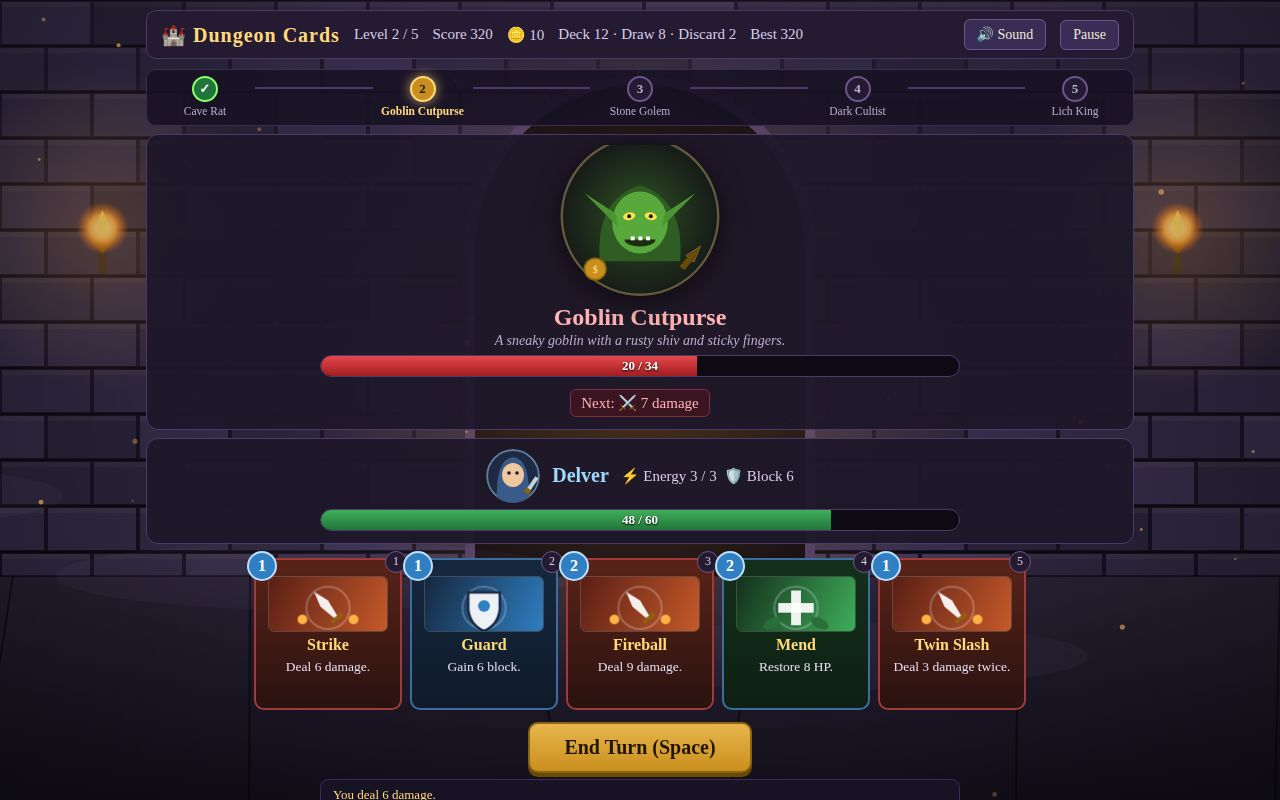
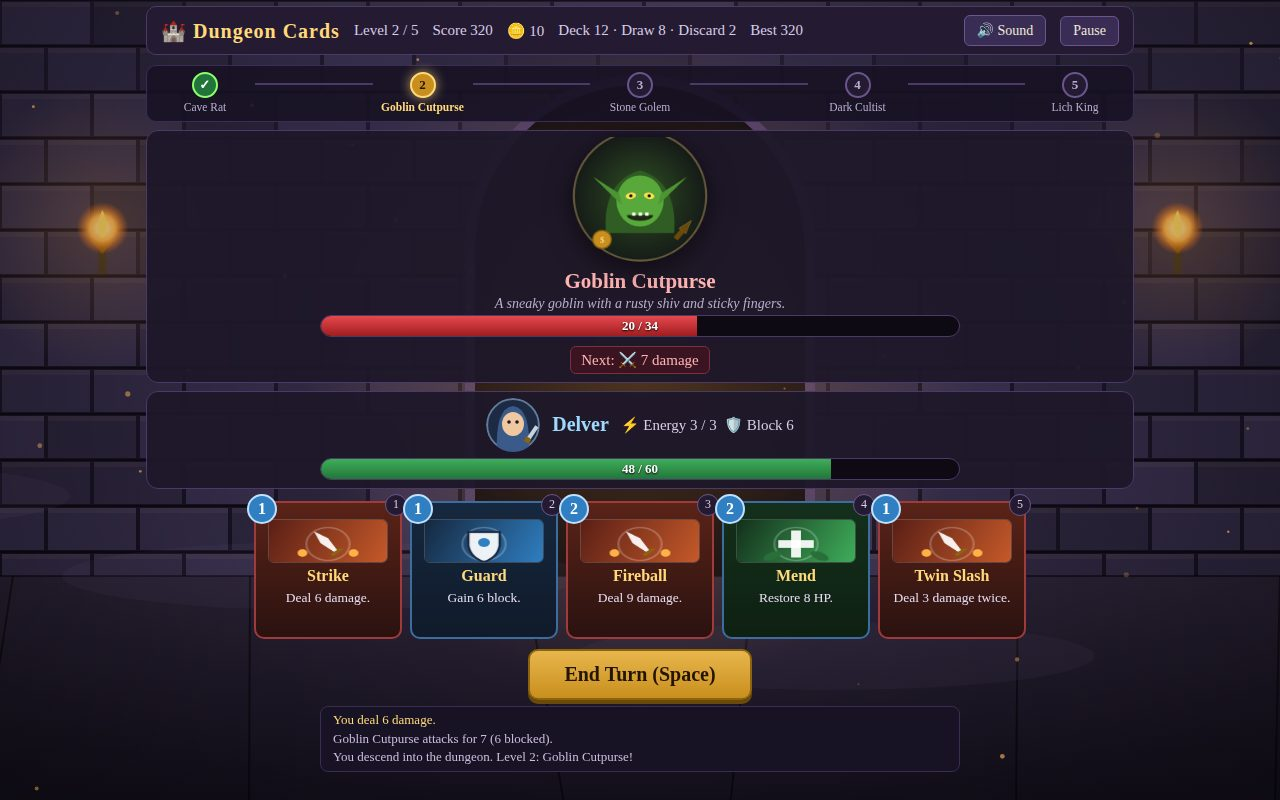
Fix fight-screen fit: compress layout so hand, End Turn and log fit 1280x800

diff --git a/css/style.css b/css/style.css
@@ -8,7 +8,7 @@ body {
   font-size: 16px;
 }
 #bg-canvas { position: fixed; inset: 0; width: 100vw; height: 100vh; z-index: 0; }
-#app { max-width: 1020px; margin: 0 auto; padding: 10px 16px 12px; min-height: 100vh; position: relative; z-index: 1; }
+#app { max-width: 1020px; margin: 0 auto; padding: 6px 16px 8px; min-height: 100vh; position: relative; z-index: 1; }
 
 /* ---------- HUD ---------- */
 #hud {
@@ -48,21 +48,21 @@ body {
 .hidden { display: none !important; }
 .monster-box, .player-box {
   background: rgba(30, 23, 41, 0.94); border: 1px solid #4a3a68; border-radius: 12px;
-  padding: 10px 18px 12px; margin-bottom: 8px; text-align: center;
+  padding: 6px 18px 8px; margin-bottom: 8px; text-align: center;
   position: relative;
 }
-.monster-art { display: block; margin: 0 auto 4px; filter: drop-shadow(0 6px 14px rgba(0,0,0,0.6)); }
+.monster-art { display: block; margin: 0 auto 4px; filter: drop-shadow(0 6px 14px rgba(0,0,0,0.6)); width: 144px; height: 128px; }
 .player-art { vertical-align: middle; border-radius: 50%; }
-.monster-name { font-size: 24px; font-weight: bold; color: #ffb3b3; margin: 2px 0; }
+.monster-name { font-size: 21px; font-weight: bold; color: #ffb3b3; margin: 2px 0; }
 .boss-tag {
   background: #7a1010; color: #ffd97a; font-size: 13px; padding: 2px 8px;
   border-radius: 5px; vertical-align: middle; letter-spacing: 1px;
 }
-.monster-desc { font-size: 14px; color: #b9aed0; font-style: italic; margin-bottom: 6px; }
+.monster-desc { font-size: 14px; color: #b9aed0; font-style: italic; margin-bottom: 3px; }
 .monster-meta { margin-top: 6px; font-size: 14px; color: #d8cde8; display: flex; gap: 16px; justify-content: center; }
 .poison { color: #8dff6e; font-weight: bold; }
 .intent {
-  margin-top: 6px; display: inline-block; background: #3a1420; color: #ffb3b3;
+  margin-top: 3px; display: inline-block; background: #3a1420; color: #ffb3b3;
   border: 1px solid #7a3040; border-radius: 6px; padding: 4px 10px; font-size: 15px;
 }
 .player-line { display: flex; align-items: center; gap: 12px; justify-content: center; margin-bottom: 6px; flex-wrap: wrap; }
@@ -86,11 +86,11 @@ body {
 /* ---------- Hand / cards ---------- */
 .hand {
   display: flex; gap: 8px; justify-content: center; flex-wrap: wrap;
-  min-height: 150px; padding: 6px 4px;
+  min-height: 138px; padding: 4px;
 }
 .hand-empty { color: #b9aed0; font-style: italic; align-self: center; }
 .card {
-  position: relative; width: 148px; min-height: 152px;
+  position: relative; width: 148px; min-height: 138px;
   background: linear-gradient(#3b2d5e, #241b33);
   border: 2px solid #6b558f; border-radius: 10px;
   padding: 10px 10px 8px; cursor: pointer; text-align: center;
@@ -124,7 +124,7 @@ body {
   display: flex; align-items: center; justify-content: center;
   font-size: 12px; color: #d8cde8; padding: 0 4px;
 }
-.card-art { width: 120px; height: 56px; border-radius: 6px; margin-top: 6px; border: 1px solid rgba(255,255,255,0.18); }
+.card-art { width: 120px; height: 44px; border-radius: 6px; margin-top: 6px; border: 1px solid rgba(255,255,255,0.18); }
 .card-name { font-size: 16px; font-weight: bold; color: #ffd97a; }
 .card-text { font-size: 13.5px; color: #e6ddf2; line-height: 1.35; }
 
@@ -132,7 +132,7 @@ body {
 #controls { text-align: center; margin: 2px 0 6px; }
 .log {
   background: #171224; border: 1px solid #3a2d55; border-radius: 8px;
-  padding: 6px 12px; font-size: 13px; color: #c9bddb; min-height: 52px;
+  padding: 4px 12px; font-size: 13px; color: #c9bddb; min-height: 38px;
   max-width: 640px; margin: 0 auto; line-height: 1.45;
 }
 .log div:first-child { color: #ffd97a; }
